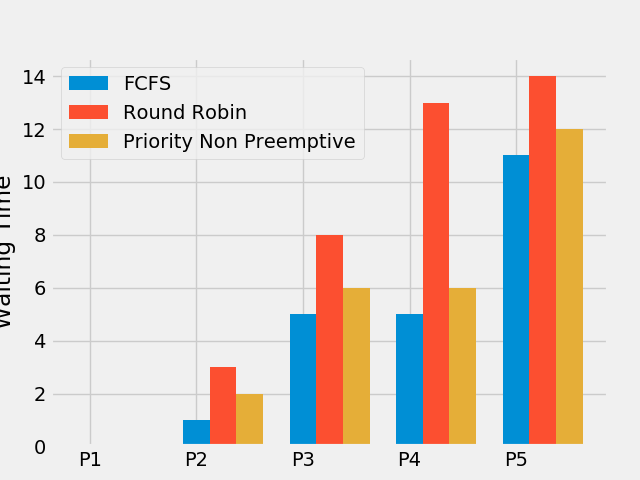
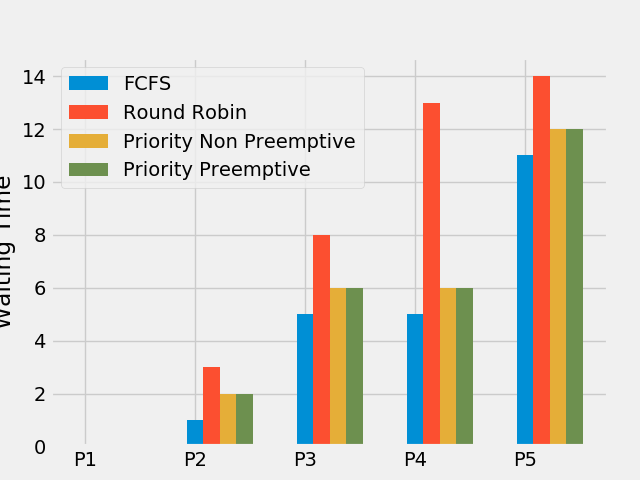
fixed some bugs

diff --git a/src/PRIORITY_P.py b/src/PRIORITY_P.py
@@ -6,10 +6,11 @@ plt.style.use('fivethirtyeight')
 processes = []  
 tat = []
 twt = []
+
+
 def priority_p():
     processes_data =[]
      
-
     with open('./inputs/PRIORITY_P.txt', 'r') as f:
         f.readline()
         for line in f.readlines():
@@ -18,8 +19,10 @@ def priority_p():
             processes.append(process)
             temporary.extend([process, int(arrival), int(burst), int(prior), 0, int(burst)])
             processes_data.append(temporary)
-    schedulingProcess(processes_data) 
-        
+    
+    twt, tat,w_time,t_time = schedulingProcess(processes_data) 
+    printData(processes_data, t_time, w_time, tat, twt)
+
 def schedulingProcess(process_data):
     start_time = []
     exit_time = []
@@ -74,7 +77,8 @@ def schedulingProcess(process_data):
                 process_data[k].append(e_time)
     t_time, tat = calculateTurnaroundTime(process_data)
     w_time, twt = calculateWaitingTime(process_data)
-    printData(process_data, t_time, w_time, sequence_of_process, tat, twt)
+    return twt , tat , w_time ,t_time
+
 
 def calculateTurnaroundTime(process_data):
     total_turnaround_time = 0
@@ -103,7 +107,7 @@ def calculateWaitingTime(process_data):
        
     return average_waiting_time, twt
 
-def printData(process_data, average_turnaround_time, average_waiting_time, sequence_of_process, tat, twt):
+def printData(process_data, average_turnaround_time, average_waiting_time,  tat, twt):
     process_data.sort(key=lambda x: x[0])
         
     print("Process_ID  Arrival_Time  Rem_Burst_Time   Priority  Completed  Orig_Burst_Time Completion_Time  Turnaround_Time  Waiting_Time")

diff --git a/src/CompareAll.py b/src/CompareAll.py
@@ -49,9 +49,29 @@ def compare():
       
     np_waiting,np_turn_around,np_compl_time= PRIORITY_NP.findgc(proc,totalprocess) 
 
-    plt.bar(x, f_waiting, width = 0.25,label = "FCFS")
-    plt.bar(x + 0.25, r_waiting, width = 0.25,label = "Round Robin" )
-    plt.bar(x+0.5,np_waiting,width=0.25,label = "Priority Non Preemptive")
+    processes_data = []
+    for i in range(len(processes)):
+        l = [] 
+        for j in range(6): 
+            l.append(0) 
+        processes_data.append(l) 
+
+    for i in range(len(processes)):
+        processes_data[i][0] = processes[i]
+        processes_data[i][1] = arrival_time[i]
+        processes_data[i][2] = burst_time[i]
+        processes_data[i][3] = priorities[i]
+        processes_data[i][4] = 0
+        processes_data[i][5] = burst_time[i]
+
+
+    pp_waiting,pp_turn_around,w_time,t_time =PRIORITY_P.schedulingProcess(processes_data) 
+
+
+    plt.bar(x, f_waiting, width = 0.15,label = "FCFS")
+    plt.bar(x + 0.15, r_waiting, width = 0.15,label = "Round Robin" )
+    plt.bar(x+0.3,np_waiting,width=0.15,label = "Priority Non Preemptive")
+    plt.bar(x+0.45,np_waiting,width=0.15,label = "Priority Preemptive")   
     plt.xticks(x,processes)
     plt.ylabel("Waiting Time")
     plt.legend()
